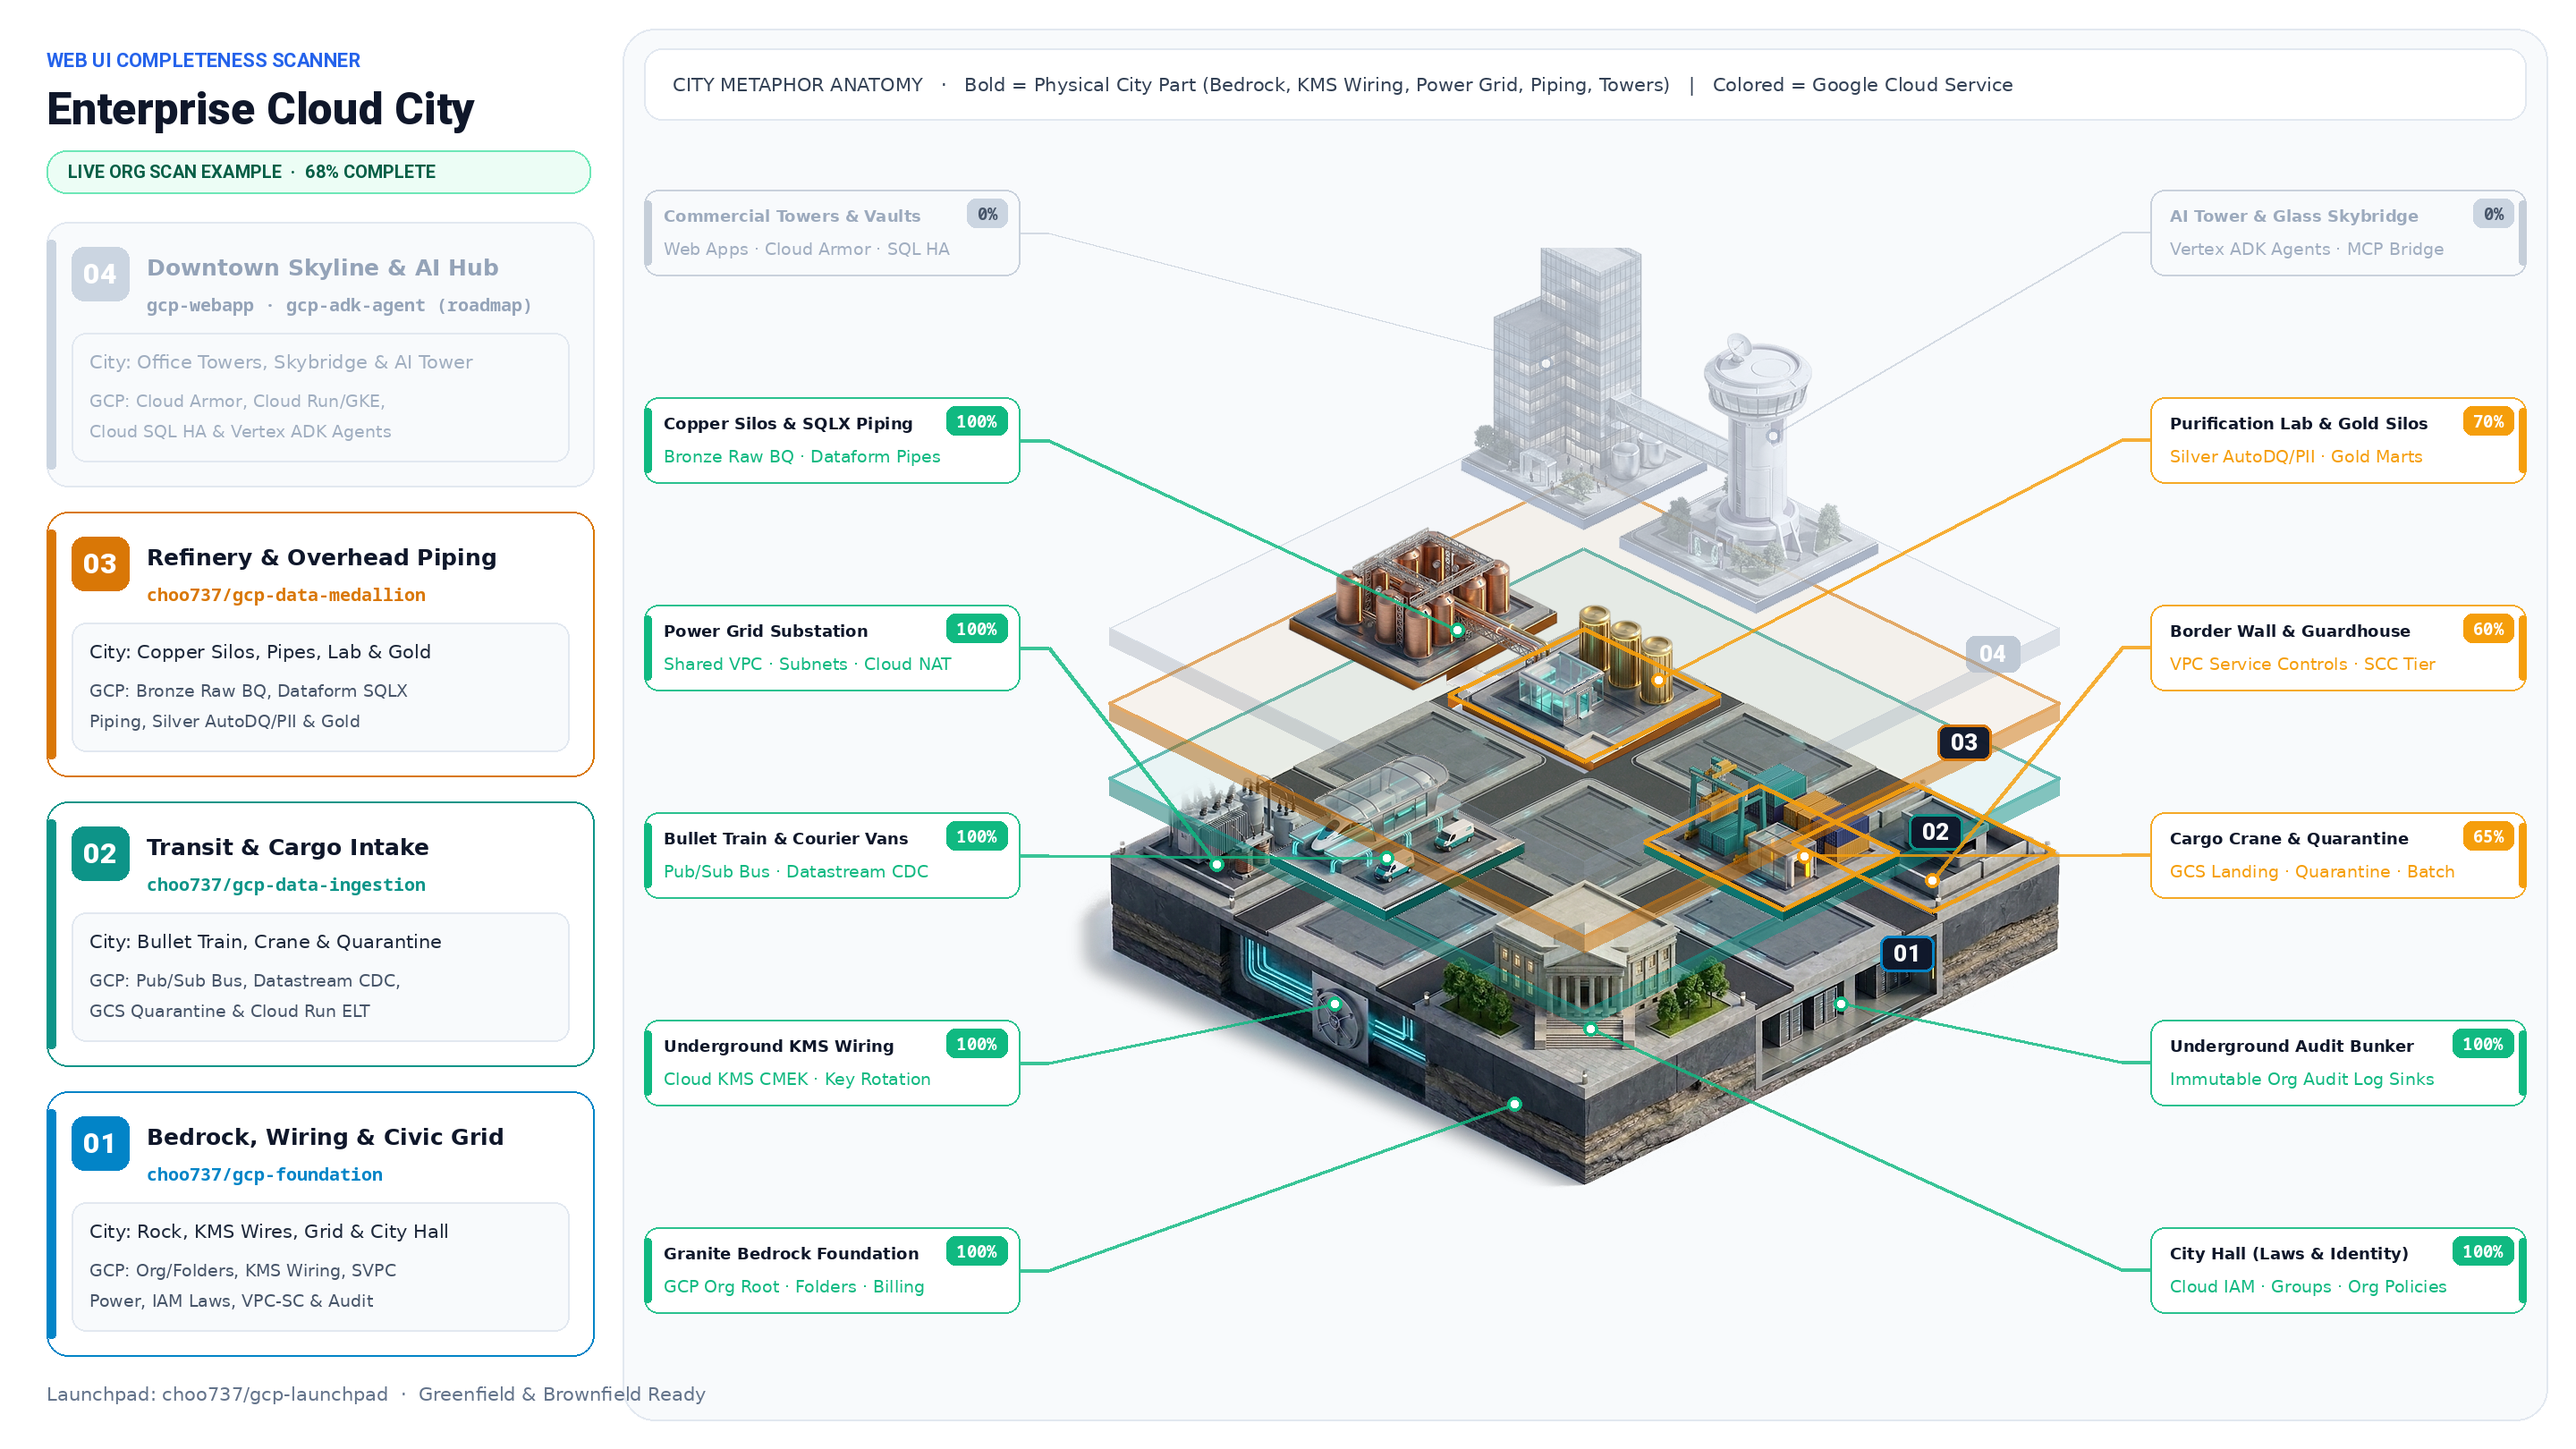
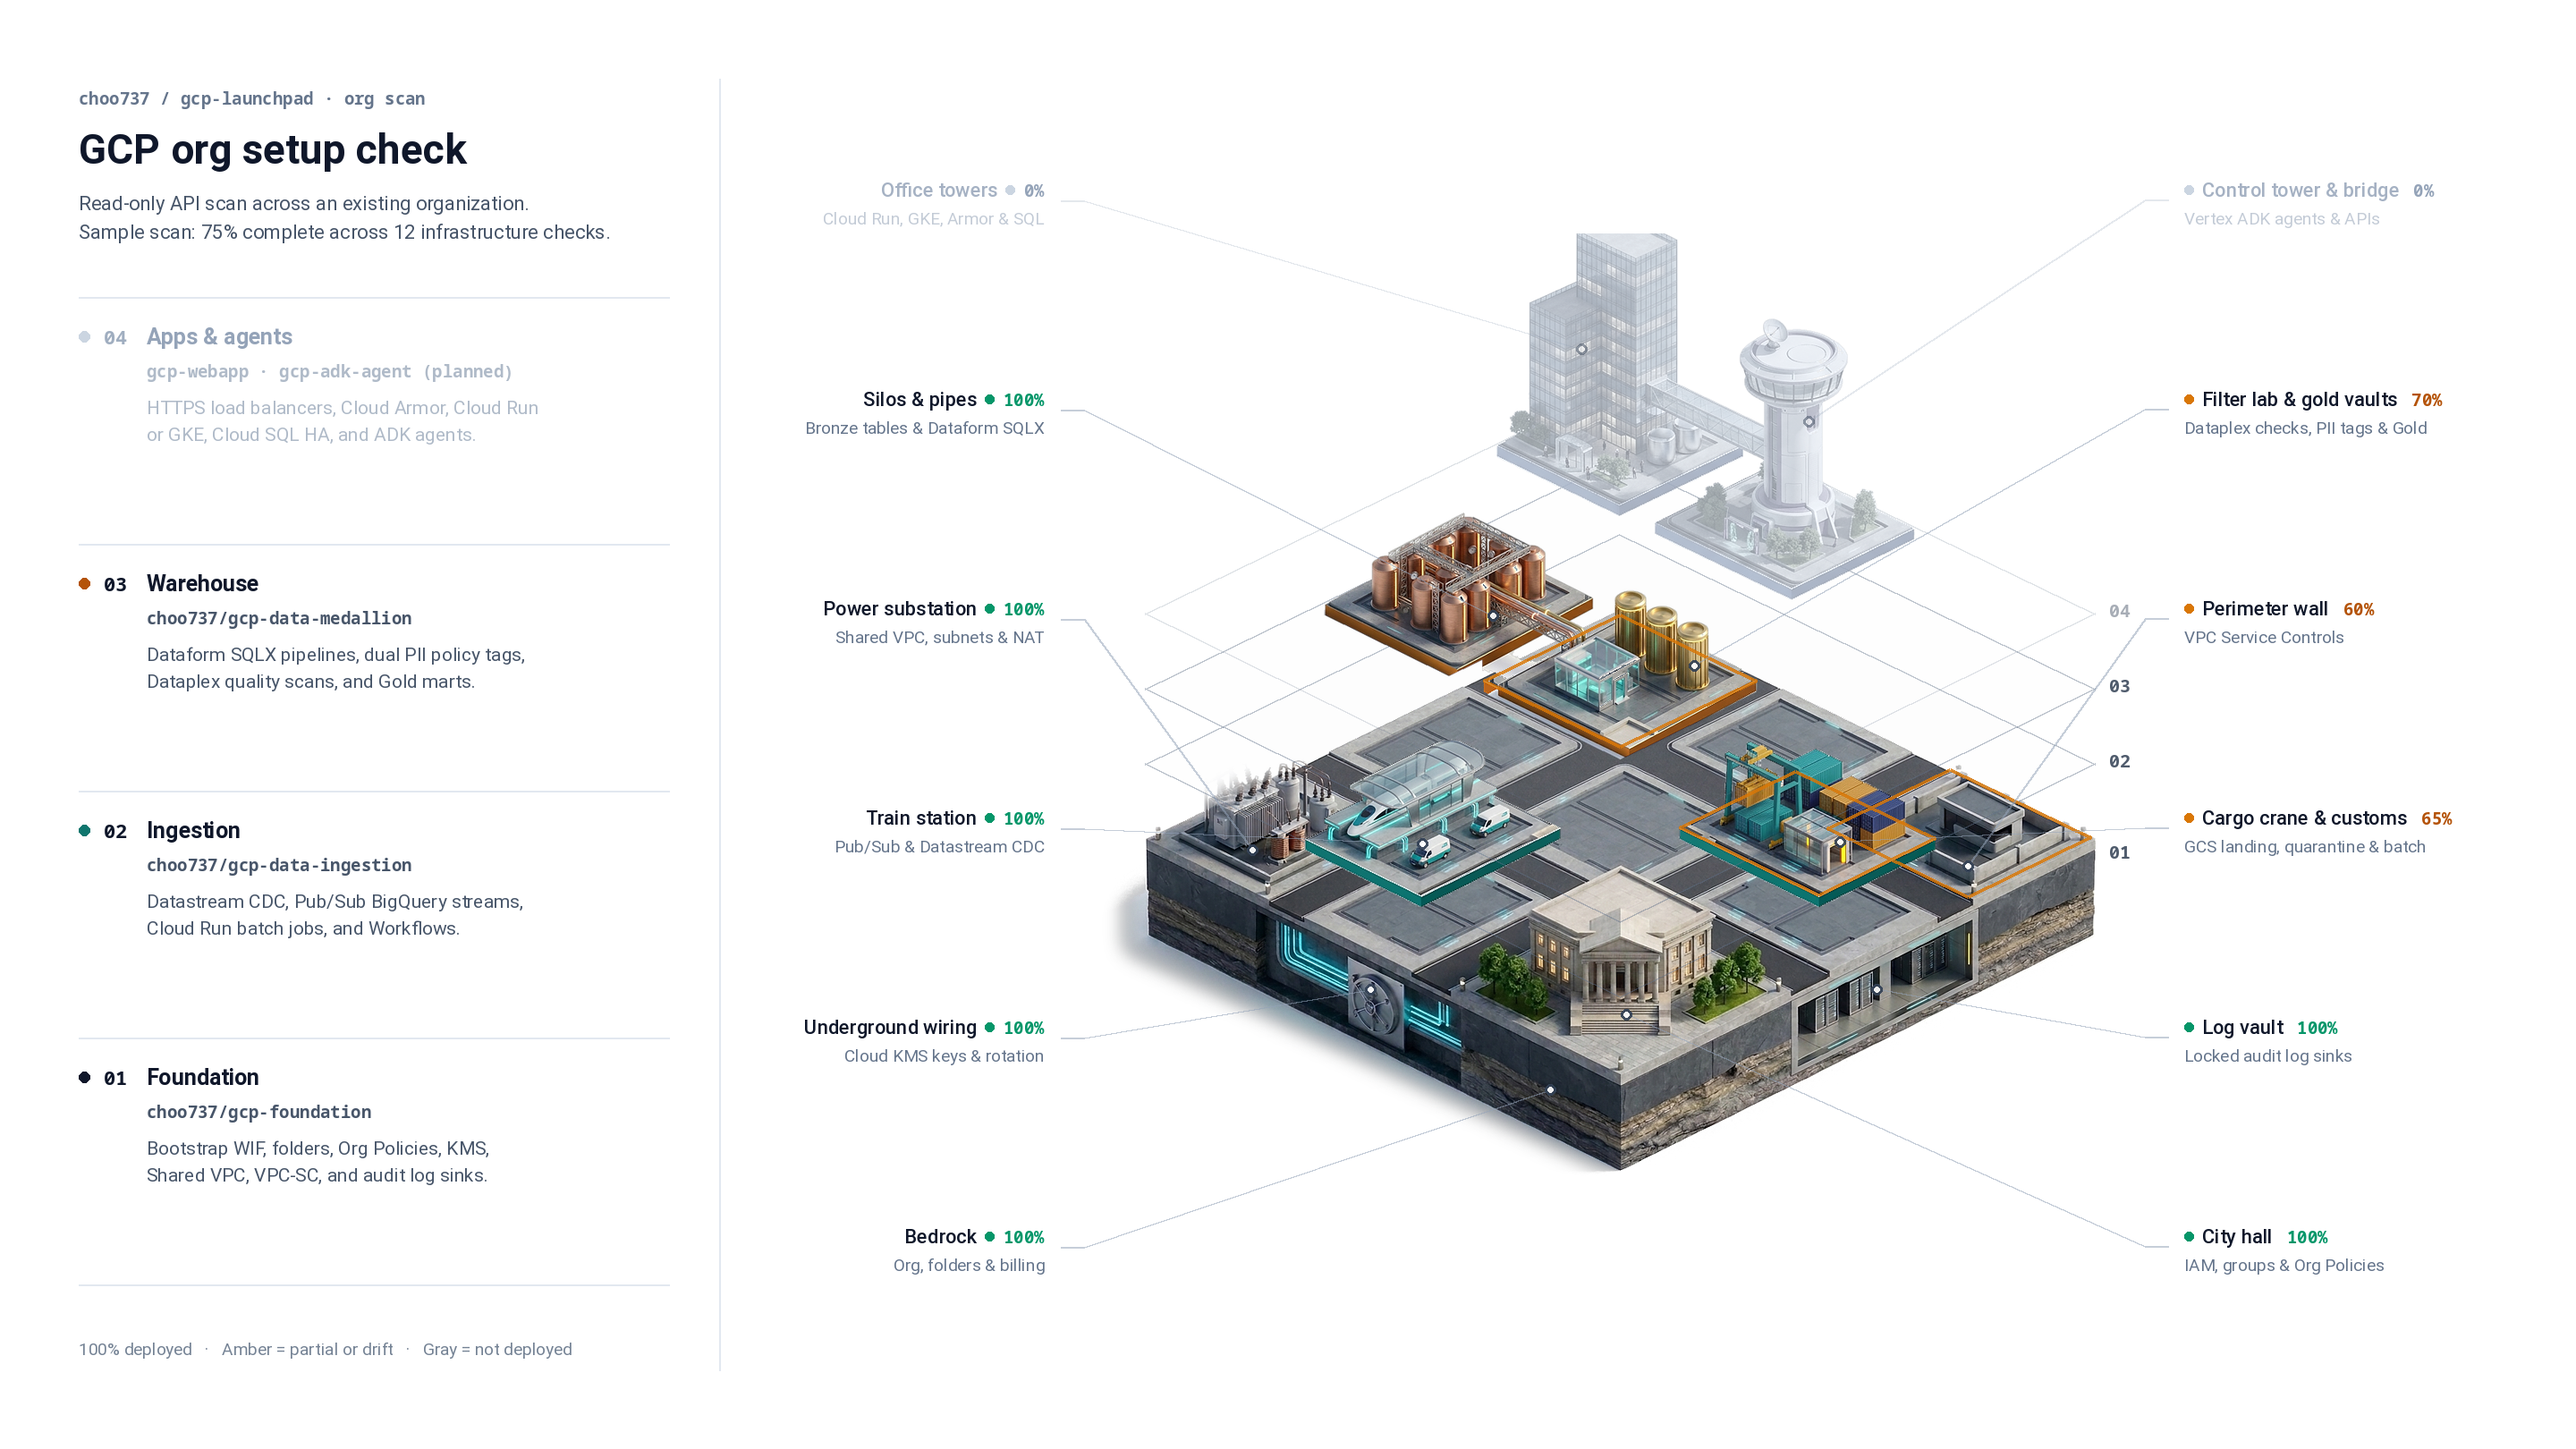
Refine platform overview plates and simplify documentation copy

diff --git a/docs/03-org-completeness-scanner-design.md b/docs/03-org-completeness-scanner-design.md
@@ -1,20 +1,20 @@
-# Org Completeness Scanner Design
+# Org Setup Check Design
 
-This specification defines a read-only Cloud City scanner for live Google Cloud organizations.
+This document specifies a read-only scanner for existing Google Cloud organizations.
 
-It maps existing GCP control-plane resources onto the twelve Cloud City districts (`D00` through `D11`).
+It checks live GCP resources against twelve platform areas (`D00` through `D11`).
 
-![Cloud City Org Completeness Scanner](../assets/cloud-city-org-scanner.png)
+![GCP org setup check](../assets/cloud-city-org-scanner.png)
 
 ## Scanner Architecture
 
 A Cloud Run service behind Cloud IAP queries eight read-only GCP APIs on demand.
 
-It never writes resources, mutates IAM bindings, or stores customer secrets outside ephemeral memory.
+It never writes resources, changes IAM bindings, or stores customer secrets on disk.
 
 ```mermaid
 flowchart LR
-    U["Platform Lead (Browser)"] --> IAP["Cloud IAP + HTTPS Load Balancer"]
+    U["Platform Engineer (Browser)"] --> IAP["Cloud IAP + HTTPS Load Balancer"]
     IAP --> CR["Cloud Run Scanner (Read-Only SA)"]
     CR --> CAI["Cloud Asset Inventory"]
     CR --> OP["Org Policy v2"]
@@ -26,34 +26,32 @@ flowchart LR
     CR --> DP["Dataplex"]
 ```
 
-## 12-District Cloud City Control-Plane Matrix
+## 12-Area Control-Plane Checks
 
-Each district tracks one concrete layer of the four-tier suite from foundation to skyline.
+Each check maps one visual area on the diagram to concrete GCP APIs.
 
-| District | Cloud City Metaphor | Layer | Target GCP Services & APIs | Key Completeness Signals |
+| ID | Diagram Area | Layer | GCP APIs Queried | Expected Signals |
 | --- | --- | --- | --- | --- |
-| `D00` | Granite Bedrock | Layer 01 | Resource Manager (`folders`, `projects`) | `02-environments` tree, core, etl, governance projects |
-| `D01` | Deep KMS Wiring & Vaults | Layer 01 | Cloud KMS (`keyRings`, `cryptoKeys`) | HSM or software CMEK rings per region |
-| `D02` | Shared VPC Power Grid & Egress | Layer 01 | Compute Engine, Cloud DNS | Host VPC, private subnets, firewall deny-all egress |
-| `D03` | City Hall & Guardrails | Layer 01 | Org Policy v2, Billing Budgets, SCC | 36 Org Policies enforced, budgets, SCC active |
-| `D04` | VPC-SC Perimeter Wall & Gate | Layer 01 | Access Context Manager | Dry-run or enforced service perimeters and ingress |
-| `D05` | Sealed Audit Bunker & Telemetry | Layer 01 | Cloud Logging, Project Liens | Locked `2555`-day audit bucket, Log Analytics, liens |
-| `D06` | Bullet-Train CDC & Stream Station | Layer 02 | Datastream, Pub/Sub | Shared PSC connection, BigQuery subscriptions, DLQ topics |
-| `D07` | GCS Freight Crane & Quarantine | Layer 02 | Cloud Storage, Cloud Run v2, Workflows | Landing bucket lifecycle, loader job, quarantine path |
-| `D08` | Copper Bronze Raw Silos | Layer 03 | BigQuery (`datasets`, `tables`) | Partitioned Bronze and `*_quarantine` tables |
-| `D09` | Overhead Dataform SQLX Piping | Layer 03 | Dataform (`repositories`, `releaseConfigs`) | Git remote, `dev`/`staging`/`prod` release configs |
-| `D10` | Silver PII Lab & Gold Marts | Layer 03 | Data Catalog, Dataplex, BigQuery | Dual PII policy tags, AutoDQ scans, Gold marts |
-| `D11` | AI Tower & Skybridge | Layer 04 | Cloud Run, Vertex AI (`gcp-webapp`, `gcp-adk-agent`) | Roadmap portal ingress and evaluated agent runtime |
+| `D00` | Bedrock | `01` | Resource Manager (`folders`, `projects`) | `02-environments` folders, core, compute, governance projects |
+| `D01` | City hall | `01` | Cloud IAM, Org Policy v2, Billing Budgets | Group bindings, 36 Org Policies, active budgets |
+| `D02` | Power substation | `01` | Compute Engine, Cloud DNS | Shared VPC host, private subnets, Cloud NAT |
+| `D03` | Underground wiring | `01` | Cloud KMS (`keyRings`, `cryptoKeys`) | Regional CMEK rings and 90-day rotation |
+| `D04` | Perimeter wall | `01` | Access Context Manager, SCC | Dry-run or enforced VPC-SC perimeters and SCC tier |
+| `D05` | Log vault | `01` | Cloud Logging, Project Liens | Locked `2555`-day audit bucket, Log Analytics, liens |
+| `D06` | Train station | `02` | Datastream, Pub/Sub | Private PSC link, BigQuery subscriptions, DLQ topics |
+| `D07` | Cargo crane & customs | `02` | Cloud Storage, Cloud Run v2, Workflows | Landing and quarantine buckets, batch jobs, workflows |
+| `D08` | Silos & pipes | `03` | BigQuery, Dataform | Partitioned Bronze tables, Dataform repo, release configs |
+| `D09` | Filter lab & gold vaults | `03` | Data Catalog, Dataplex, BigQuery | PII policy tags, AutoDQ scans, Gold marts |
+| `D10` | Office towers | `04` | Cloud Armor, Cloud Run, GKE, Cloud SQL | HTTPS load balancer, WAF policy, regional HA database |
+| `D11` | Control tower & bridge | `04` | Vertex AI, Model Armor, Cloud Trace | ADK agent runtime (`gcp-adk-agent`), guardrails, traces |
 
-## Completeness States
+## Status Values
 
-Each district renders one visual state from its live API coverage score.
-
-| State | Score Range | Visual Treatment | Meaning |
+| Status | Score | Diagram Treatment | Meaning |
 | --- | --- | --- | --- |
-| Complete | `100%` | Full color district | All expected control-plane resources exist and match policy |
-| Partial or Drift | `1-99%` | Amber drift ring | Partial deployment or policy drift detected across active stages |
-| Missing | `0%` | Frosted grayscale model | Layer or district not yet provisioned in target scope |
+| Complete | `100%` | Full color | Expected resources exist and match policy |
+| Partial or drift | `1-99%` | Amber outline | Resources exist with missing settings or policy drift |
+| Not deployed | `0%` | Gray model | Area is not provisioned in the scanned scope |
 
 ## Required Read-Only IAM Roles
 

diff --git a/README.md b/README.md
@@ -1,18 +1,18 @@
 # GCP Launchpad
 
-`gcp-launchpad` is the AI-native entry hub for the `choo737` Google Cloud template suite.
+`gcp-launchpad` is the starting repo for the `choo737` Google Cloud template set.
 
-It routes teams from business requirements to private, production-ready Google Cloud repositories.
+Use it to map requirements, inspect existing GCP projects, and spin up private repositories.
 
 ## Template Suite Overview
 
 <picture>
   <source type="image/webp" srcset="assets/cloud-city-launchpad.webp">
-  <img src="assets/cloud-city-launchpad.gif" alt="Cloud City four-layer Google Cloud platform architecture" width="100%">
+  <img src="assets/cloud-city-launchpad.gif" alt="Four-layer Google Cloud platform overview" width="100%">
 </picture>
 
-Cloud City models four layers: 01 Bedrock/Wiring/Grid, 02 Transit/Cargo Intake, 03 Refinery/Piping, and 04 Skyline/AI.
-Each downstream repository builds and highlights its own active layer inside the suite.
+Each repository owns one layer: `01` foundation, `02` ingestion, `03` warehouse, and `04` apps and agents.
+Together they fit into a single Google Cloud environment without overlapping ownership.
 
 | Template Repository | Status | Included Capabilities | Best For |
 | --- | --- | --- | --- |
